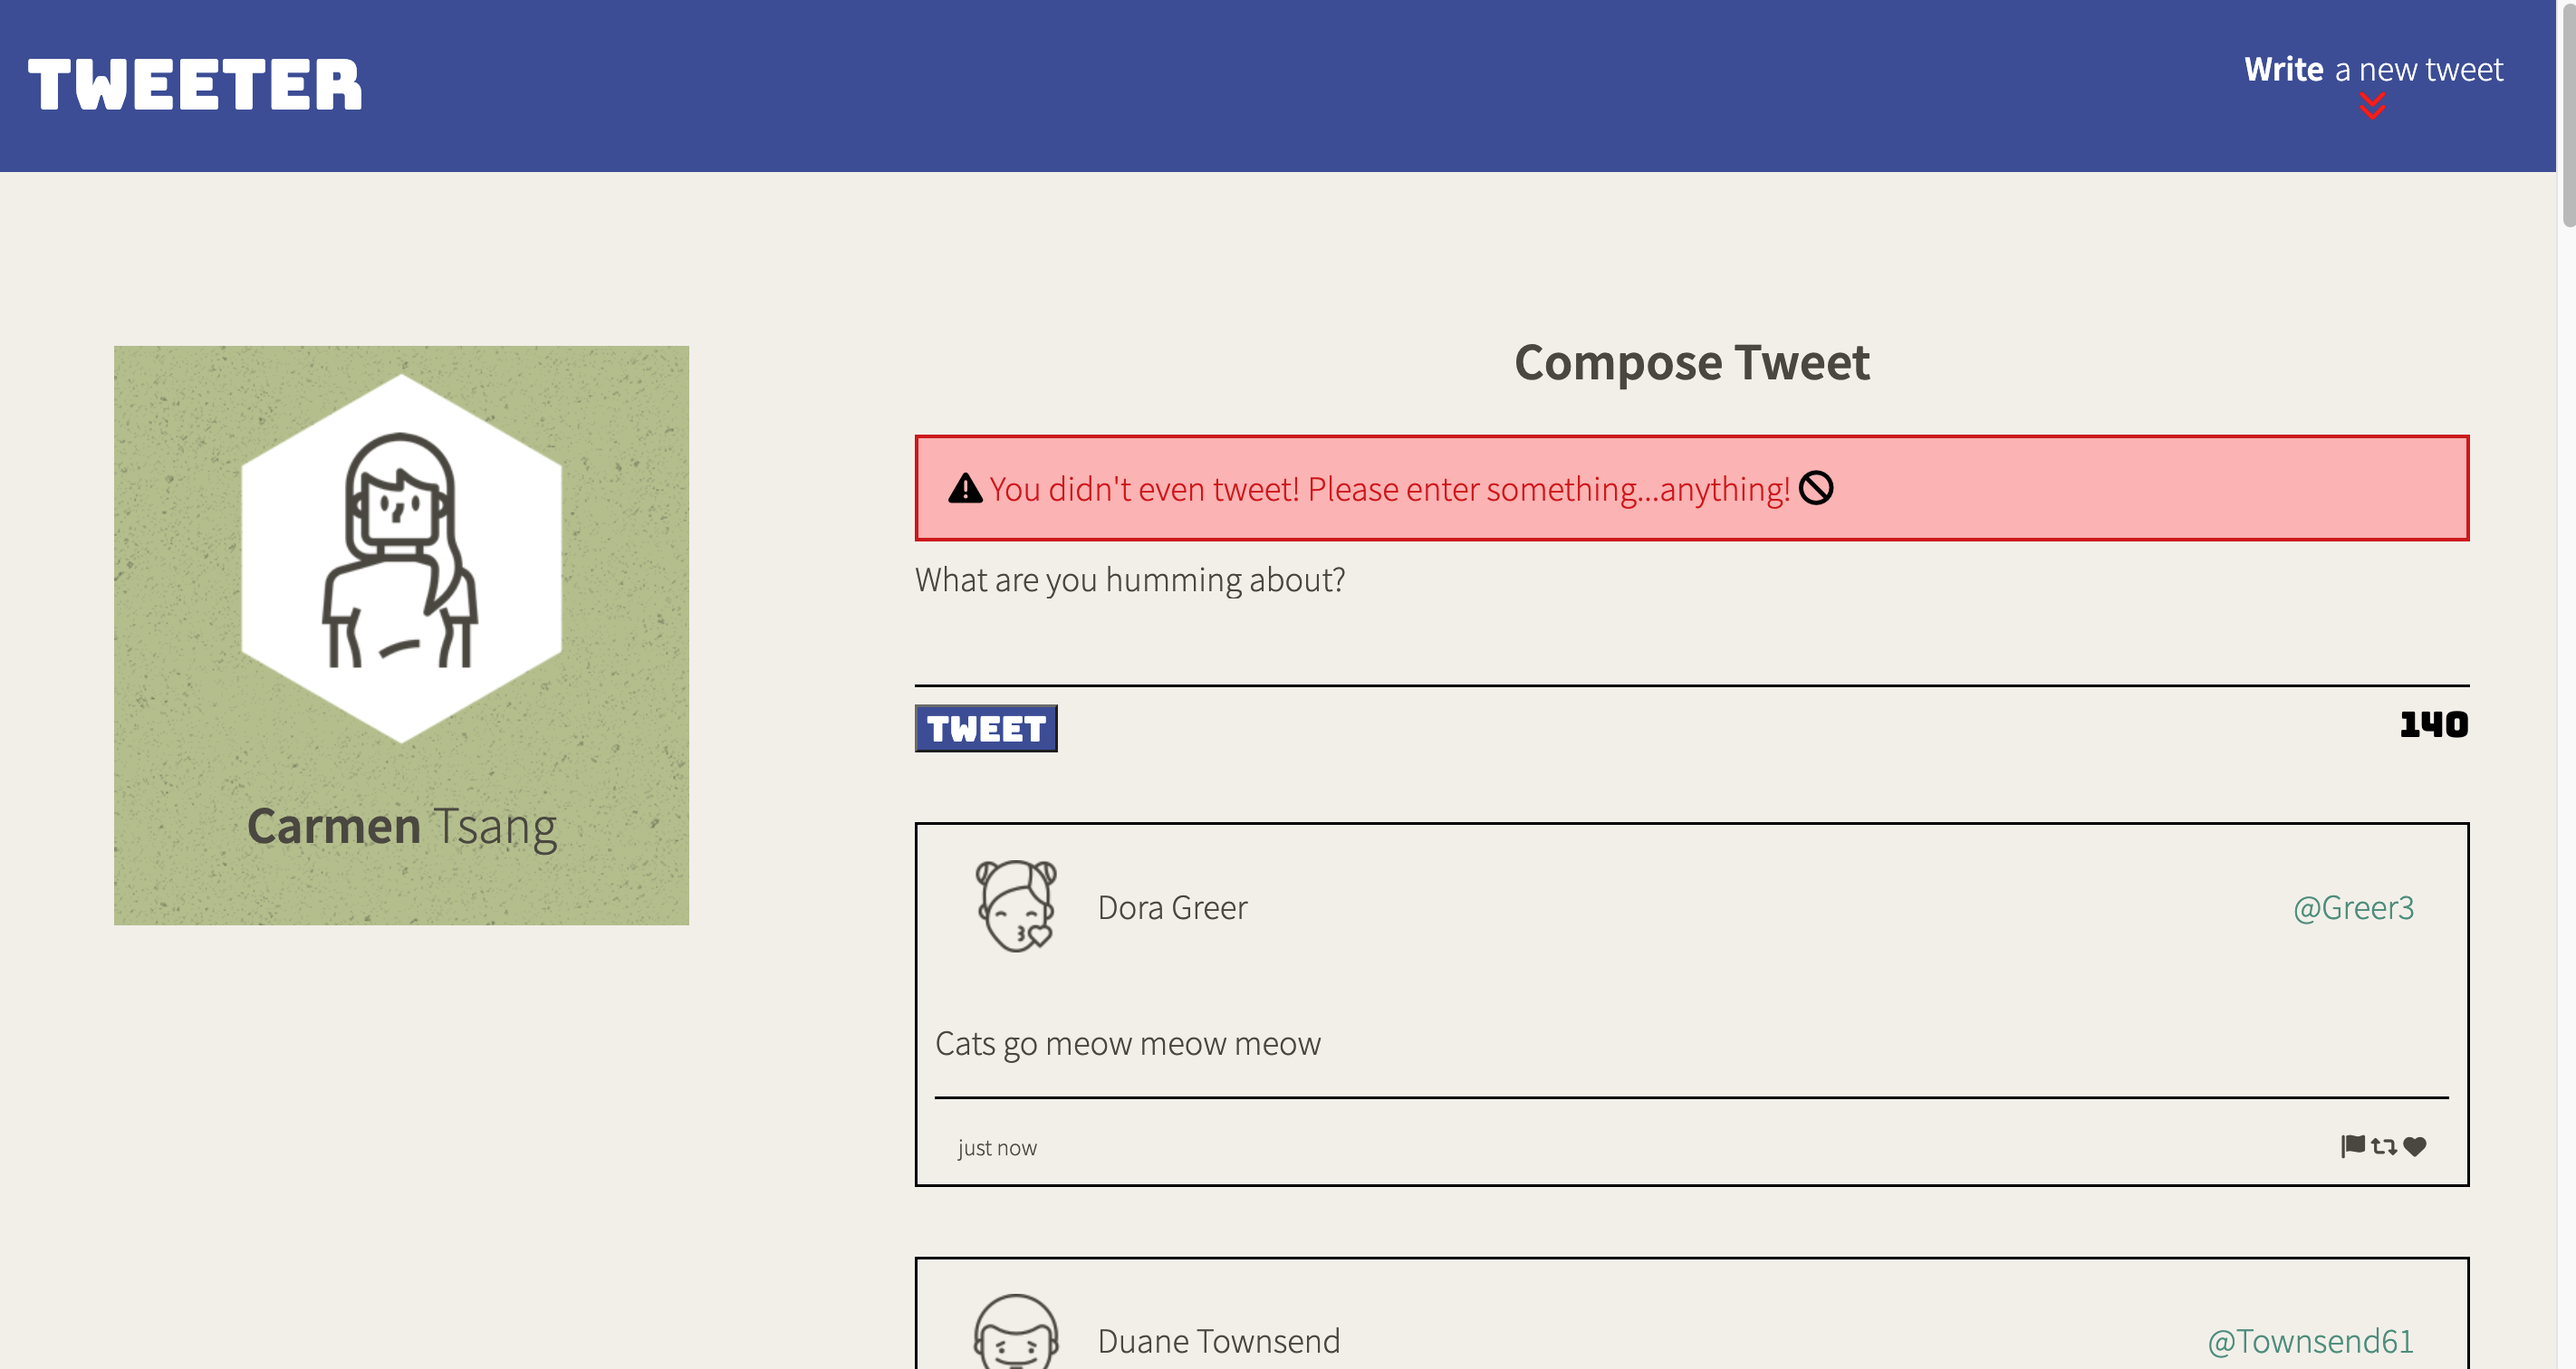
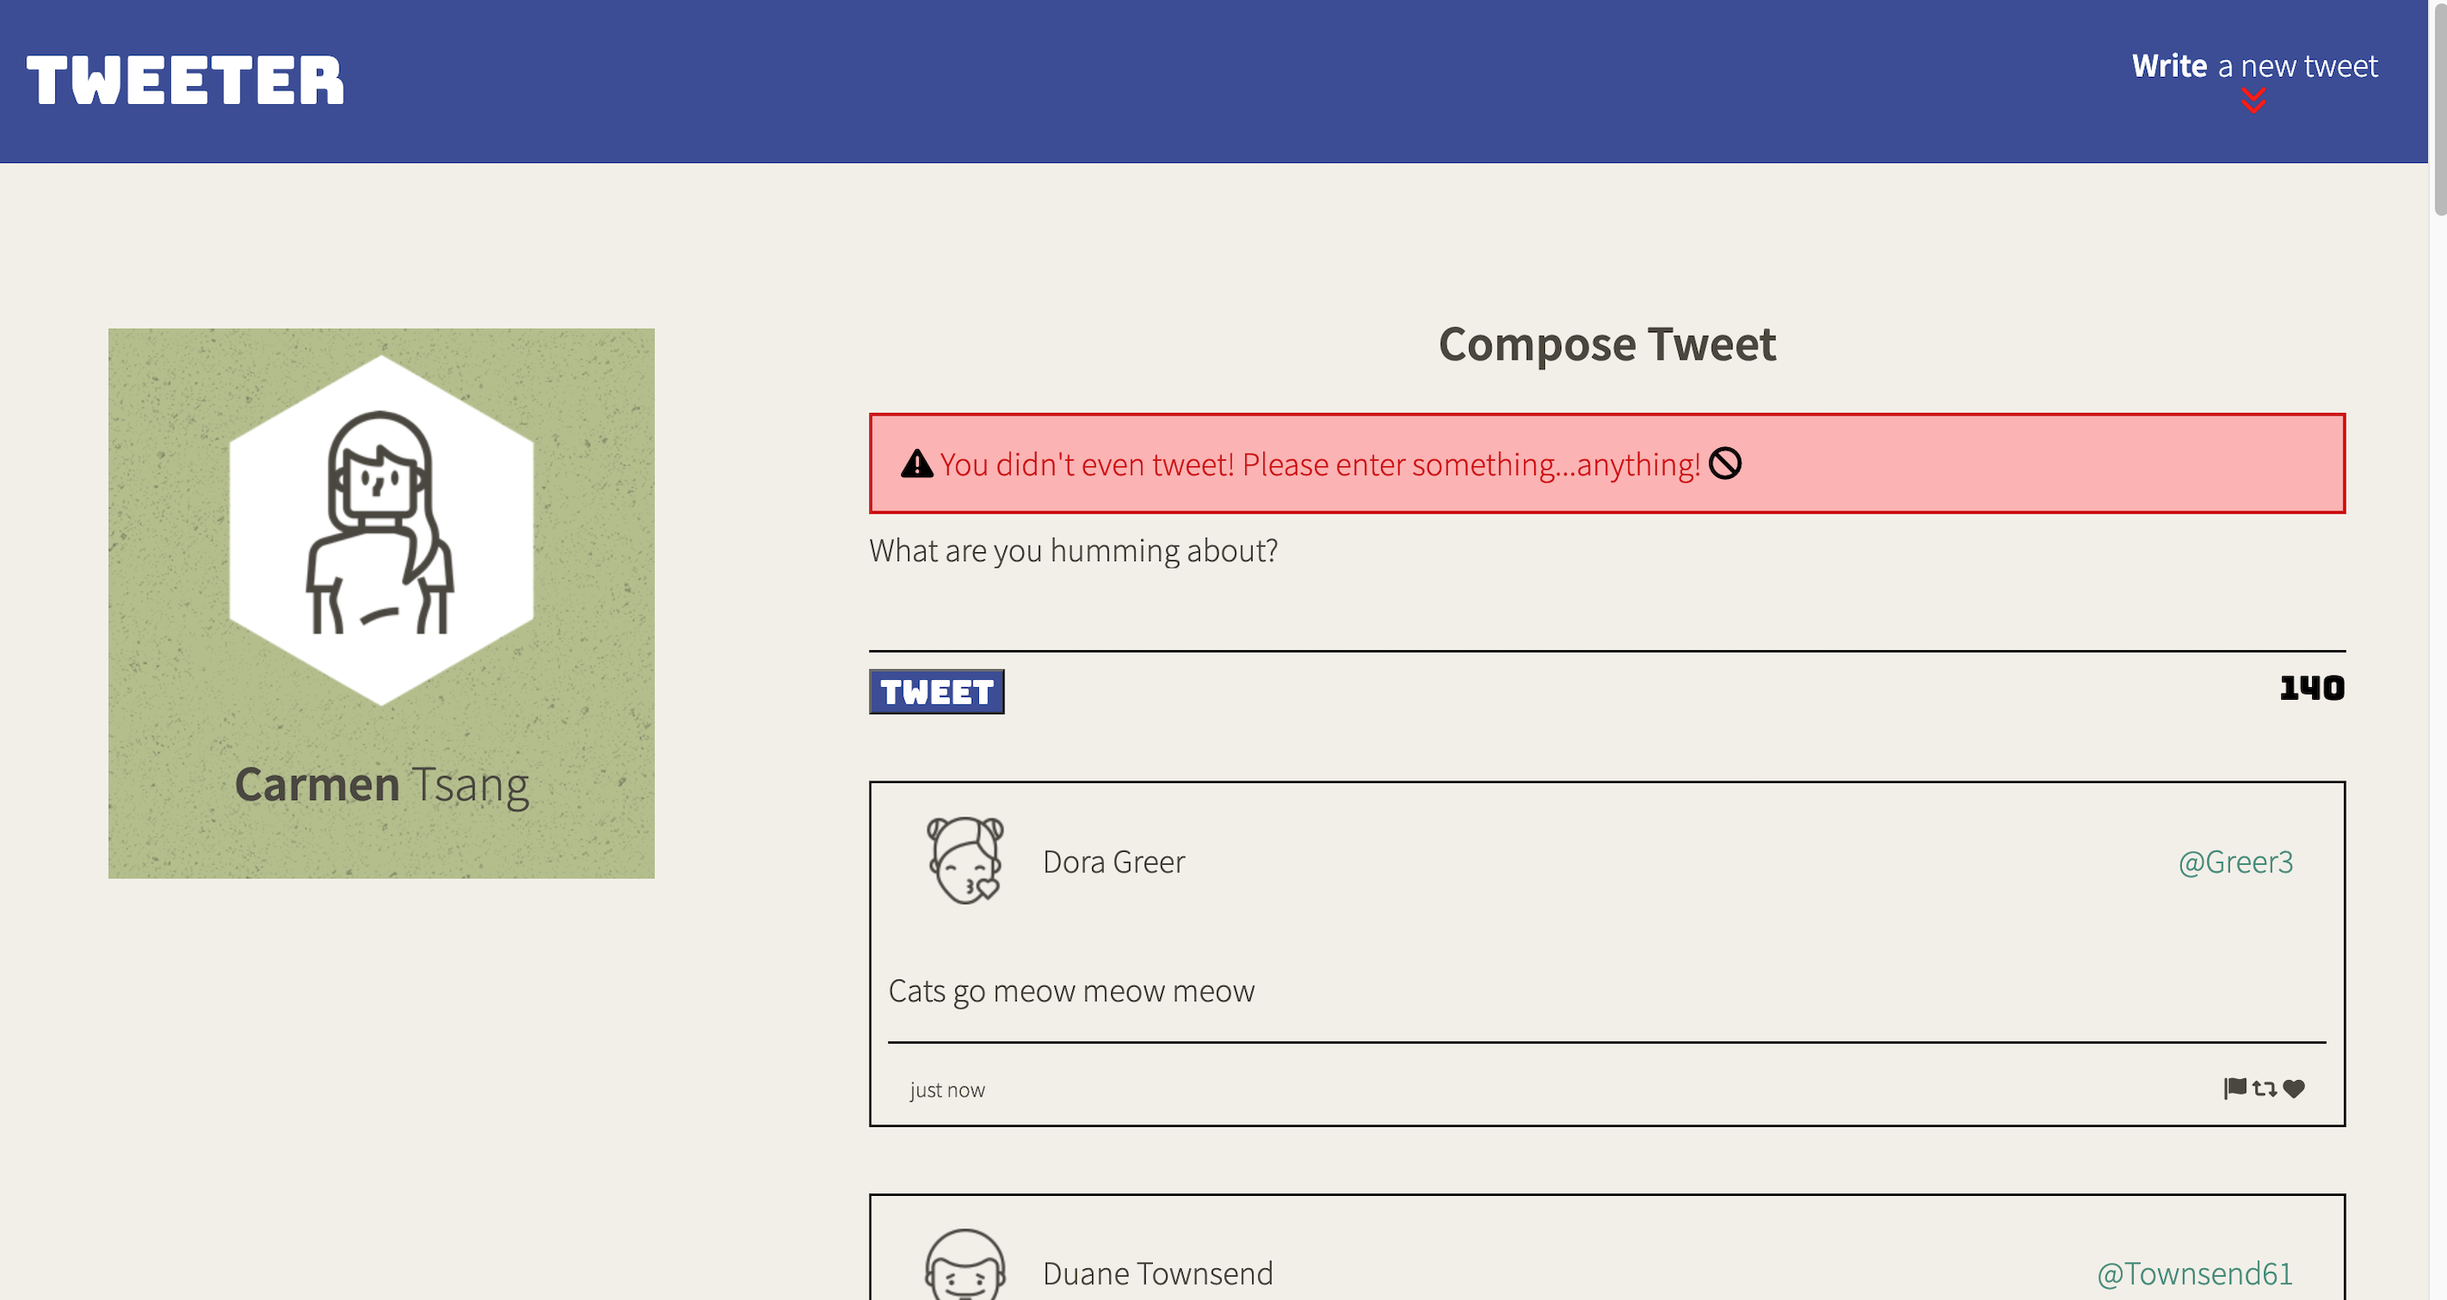
resize images

Changed region(s): [[0.3731, 0.5209, 0.4041, 0.5515]]

diff --git a/README.md b/README.md
@@ -5,8 +5,8 @@ Tweeter is a simple, single-page Twitter clone.
 This repository is the starter code for the project: Students will fork and clone this repository, then build upon it to practice their HTML, CSS, JS, jQuery and AJAX front-end skills, and their Node, Express back-end skills.
 
 ## Final Product
-
-![Tweeter Desktop view with error message](https://github.com/carmtsang/tweeter/blob/master/docs/error%20message.png)
+![Tweeter Desktop view](https://github.com/carmtsang/tweeter/blob/master/docs/no%20textbox.png)
+![Desktop view with error message](https://github.com/carmtsang/tweeter/blob/master/docs/error%20message.png)
 ![Desktop view with error message](https://github.com/carmtsang/tweeter/blob/master/docs/too%20long%20error.png)
 ![Mobile view with tweet composer](https://github.com/carmtsang/tweeter/blob/master/docs/tablet%20view.png)
 ![Mobile view without tweet compser](https://github.com/carmtsang/tweeter/blob/master/docs/no%20new%20tweet%20tablet.png)
@@ -20,8 +20,8 @@ This repository is the starter code for the project: Students will fork and clon
 4. Go to <http://localhost:8080/> in your browser.
 
 ## Write Tweets
-Click on 'Write a new tweet' on the left nav bar to display the new tweet textbox.
-Compose a tweet within 140 characters
+1. Click on 'Write a new tweet' on the left nav bar to display the new tweet textbox.
+2. Compose a tweet within 140 characters and click enter.
 
 ## Dependencies
 
@@ -29,4 +29,5 @@ Compose a tweet within 140 characters
 - Node 5.10.x or above
 - Body Parser
 - Chance
+- MD5
 
